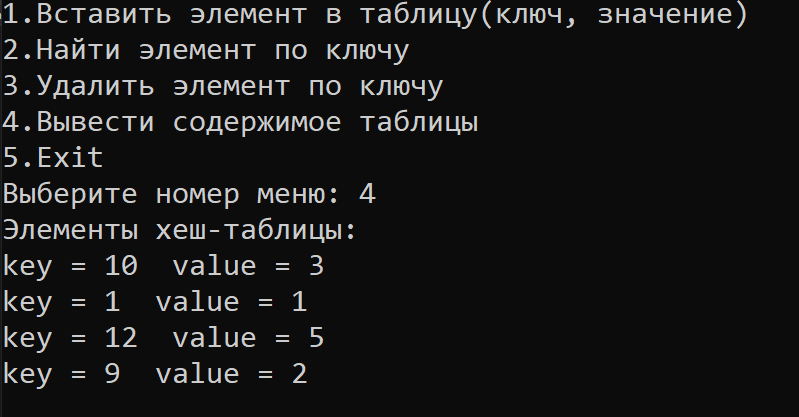
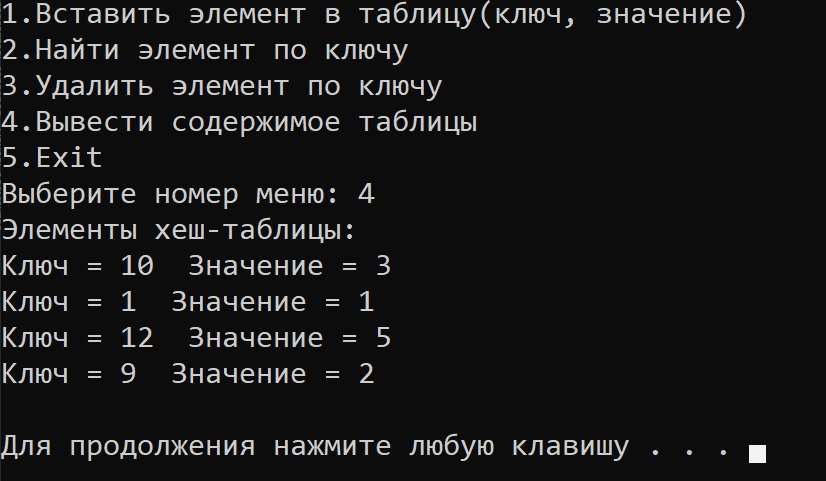
Исправил

diff --git a/Лощаков Семен Николаевич/Лабораторная работа №3/hashtab.cpp b/Лощаков Семен Николаевич/Лабораторная работа №3/hashtab.cpp
@@ -11,126 +11,98 @@
 
 #include <iostream> 
 #include <vector>
-#include <string>
 
 using namespace std;
 
-template<typename K, typename V>
-
-class HashNode
+template<typename Key, typename Val>
+class Node
 {
 public:
-    V value;
-    K key;
-  
-    HashNode(K key, V value)
-    {
-        this->value = value;
-        this->key = key;
-    }
+    Val value;
+    Key key;
+    Node(Key key, Val value) { this->value = value; this->key = key; }
 };
 
-template<typename K, typename V>
-
-class HashMap
+template<typename Key, typename Val>
+class HTable
 {
-    HashNode<K, V>** arr;
-    int capacity;
-    int size;
-    HashNode<K, V>* dummy;
+    int capacity, SIZE;
+    Node<Key, Val>** arr;
+    Node<Key, Val>* xF;
 
 public:
-    HashMap()
+    HTable()
     {
         capacity = 5;
-        size = 0;
-        arr = new HashNode<K, V> * [capacity];
-        for (int i = 0; i < capacity; i++)
-            arr[i] = NULL;
-        dummy = new HashNode<K, V>(-1, -1);
-    }
-    int hashCode(K key)
-    {
-        return key % capacity;
+        SIZE = 0;
+        arr = new Node<Key, Val> * [capacity];
+        for (int i = 0; i < capacity; i++) arr[i] = NULL;
+        xF = new Node<Key, Val>(-1, -1);
     }
 
-    void insertNode(K key, V value)
+    int HFunc(Key key) { return key % capacity; }
+
+    void AddToTable(Key key, Val value)
     {
-        HashNode<K, V>* temp = new HashNode<K, V>(key, value);
-        int hashIndex = hashCode(key);
- 
-        while (arr[hashIndex] != NULL && arr[hashIndex]->key != key && arr[hashIndex]->key != -1 && arr[hashIndex]->key == key && size != capacity)
+        Node<Key, Val>* temp = new Node<Key, Val>(key, value);
+        int i = HFunc(key);
+
+        while (arr[i] != NULL && arr[i]->key != key && arr[i]->key != -1 && arr[i]->key == key && SIZE != capacity)
         {
-            hashIndex++;
-            hashIndex %= capacity;
+            i++;
+            i %= capacity;
         }
 
-        if (arr[hashIndex] == NULL || arr[hashIndex]->key == -1)
-            size++;
-
-        arr[hashIndex] = temp;
+        if (arr[i] == NULL || arr[i]->key == -1) SIZE++;
+        arr[i] = temp;
     }
 
-    V deleteNode(int key)
+    Val Delete(int key)
     {
-        int hashIndex = hashCode(key);
+        int i = HFunc(key);
 
-        while (arr[hashIndex] != NULL)
+        while (arr[i] != NULL)
         {
-            if (arr[hashIndex]->key == key)
+            if (arr[i]->key == key)
             {
-                HashNode<K, V>* temp = arr[hashIndex]; 
-                arr[hashIndex] = dummy;
-                size--;
+                Node<Key, Val>* temp = arr[i];
+                arr[i] = xF;
+                SIZE--;
                 return temp->value;
             }
-            hashIndex++;
-            hashIndex %= capacity;
+            i++;
+            i %= capacity;
         }
         return NULL;
     }
-    V get(int key)
-    { 
-        int hashIndex = hashCode(key);
-        int counter = 0;   
-        while (arr[hashIndex] != NULL)
-
+    Val FoundToKey(int key)
+    {
+        int i = HFunc(key);
+        int counter = 0;
+        while (arr[i] != NULL)
         {
             int counter = 0;
-            if (counter++ > capacity)   
-                return NULL;
-
-            if (arr[hashIndex]->key == key)
-                return arr[hashIndex]->value;
-
-            hashIndex++;
-            hashIndex %= capacity;
-        } 
+            if (counter++ > capacity) return NULL;
+            if (arr[i]->key == key) return arr[i]->value;
+            i++;
+            i %= capacity;
+        }
         return NULL;
     }
 
-    int maxsizeofMap()
-    {
-        return capacity;
-    }
+    int maxsizeofMap() { return capacity; }
+    int sizeofMap() { return SIZE; }
+    bool isEmpty() { return SIZE == 0; }
 
-    int sizeofMap()
-    {
-        return size;
-    }
-
-    bool isEmpty()
-    {
-        return size == 0;
-    }
-
-    void display()
+    void Display()
     {
         for (int i = 0; i < capacity; i++)
         {
             if (arr[i] != NULL && arr[i]->key != -1)
-                cout << "key = " << arr[i]->key
-                << "  value = " << arr[i]->value << endl;
+            {
+                cout << "Ключ = " << arr[i]->key << "  Значение = " << arr[i]->value << endl;
+            }
+
         }
     }
 };
@@ -140,7 +112,7 @@ int main()
 {
     setlocale(LC_ALL, "Rus");
     int num, val, key;
-    HashMap<int, int>* h = new HashMap<int, int>;
+    HTable<int, int>* h = new HTable<int, int>;
 
     while (1) {
         system("cls");
@@ -154,46 +126,36 @@ int main()
         switch (num) {
         case 1:
             cout << "Текущее количество элементов в таблице: " << h->sizeofMap() << endl;
-            cout << "Введите интересующий вас элемент : ";
-            cin >> val;
-            cout << "Введите ключ, на котором элемент должен быть вставлен : ";
-            cin >> key;
-            h->insertNode(key, val);
+            cout << "Введите интересующий вас элемент : "; cin >> val;
+            cout << "Введите ключ, на котором элемент должен быть вставлен : "; cin >> key;
+            h->AddToTable(key, val);
             break;
             system("cls");
         case 2:
-            cout << "Введите ключ элемента для поиска: ";
-            cin >> key;
-            if (h->get(key) == -1) {
+            cout << "Введите ключ элемента для поиска: "; cin >> key;
+            if (h->FoundToKey(key) == -1)
+            {
                 cout << "Элемент не найден в ключе " << key << endl;
                 continue;
             }
-            else {
-                cout << "Элемент в ключе " << key << ": ";
-                cout << h->get(key) << endl;
+            else
+            {
+                cout << "Элемент в ключе " << key << ": " << h->FoundToKey(key) << endl;
             }
             system("pause");
             break;
             system("cls");
         case 3:
-            cout << "Введите ключ удаляемого элемента: ";
-            cin >> key;
-            cout << "Значение " << h->get(key) << " в ключе " << key << " удалено!";
-            h->deleteNode(key);
+            cout << "Введите ключ удаляемого элемента: "; cin >> key;
+            cout << "Значение " << h->FoundToKey(key) << " в ключе " << key << " удалено!"; h->Delete(key);
             cout << endl;
             system("pause");
             break;
             system("cls");
         case 4:
             cout << "Элементы хеш-таблицы:" << endl;
-            if (h->isEmpty())
-            {
-                cout << "Таблица пуста" << endl;
-            }
-            else
-            {
-                h->display();
-            }
+            if (h->isEmpty()) { cout << "Таблица пуста" << endl; }
+            else { h->Display(); }
             cout << endl;
             system("pause");
             break;
@@ -204,6 +166,5 @@ int main()
             cout << "\nВведите корректный номер меню!\n";
         }
     }
-
     return 0;
 }
